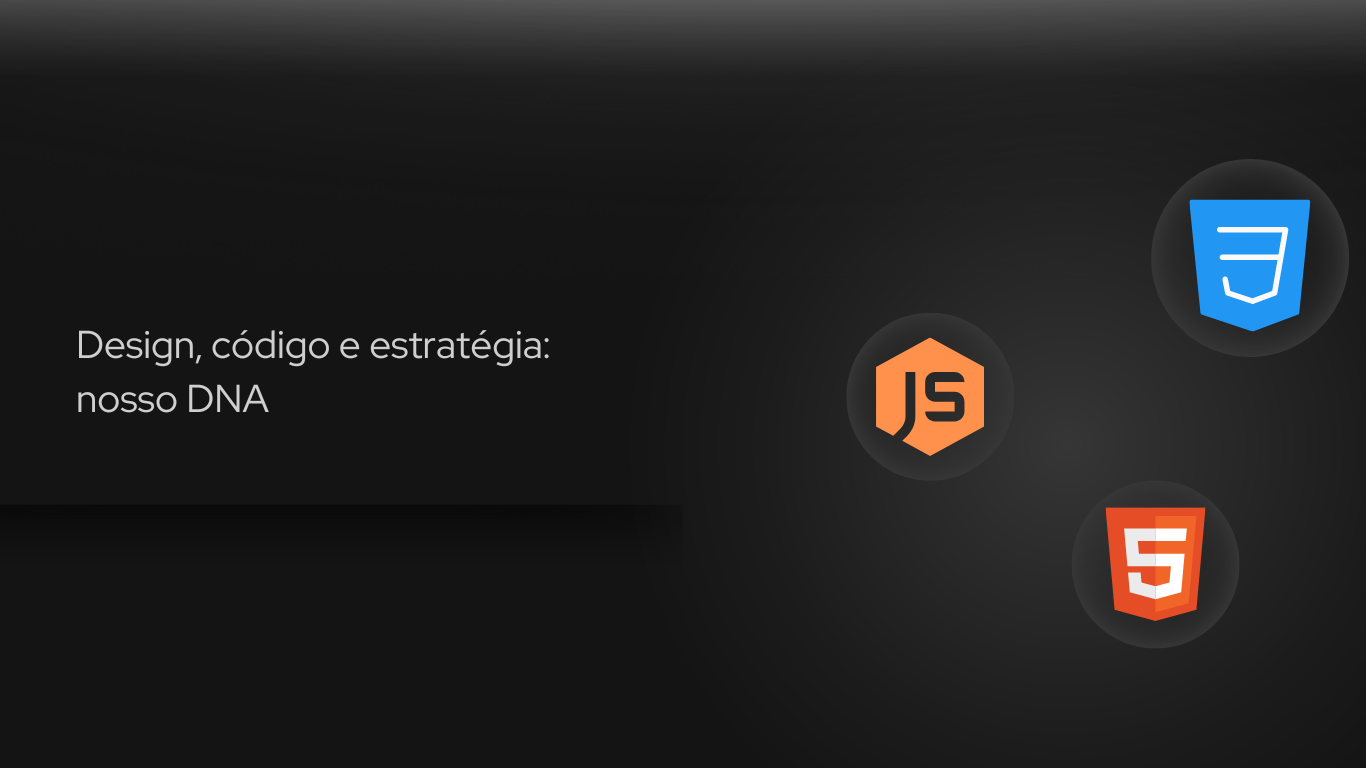
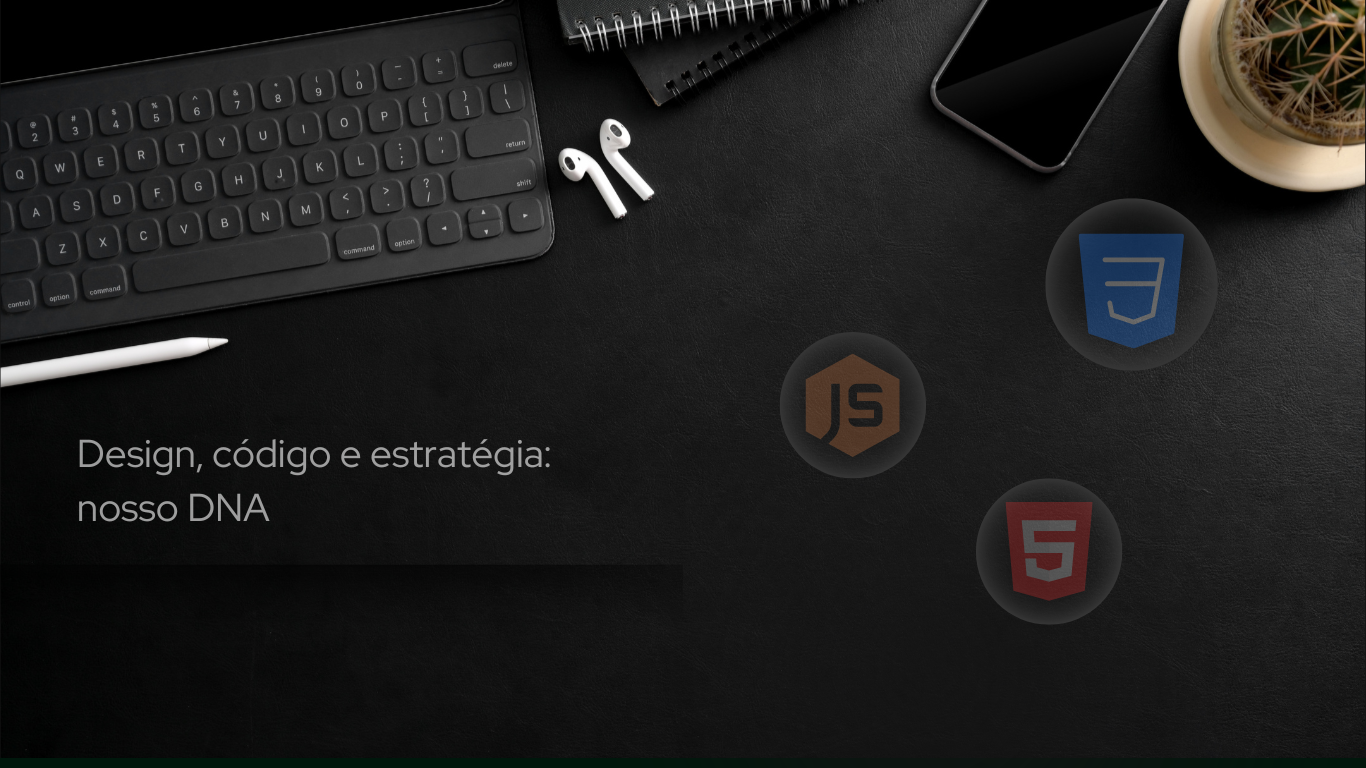
alt

diff --git a/index.html b/index.html
@@ -18,6 +18,7 @@
             <div class="son-one">
                 <div>
                     <a href="index.html">
+                        <h1 id="xurgaris">Xurgaris</h1>
                         <button id="bot">Home</button>
                     </a>
                 </div>
@@ -29,7 +30,6 @@
             </div>
 
             <div class="son-two">
-                <h1 id="xurgaris">Xurgaris</h1>
             </div>
 
             <div class="son-three">
@@ -45,7 +45,9 @@
                 </div>
             
                  <div class="nav">
-                    <span style="color: #fff;margin-top: 15px;margin-left: -30px;font-size: 40px;" class="material-symbols-outlined" onclick="clickMenu()">menu</span>
+                    <span style="color: #fff;margin-top: 32px;margin-left: -30px;font-size: 40px;" onclick="clickMenu()" class="material-symbols-outlined">
+                        segment
+                        </span>
                     <div id="menu">
                         <ul>
                             <li style="font-size: 20px;"><a id="itens" href="index.html">Home</a></li>
@@ -64,10 +66,12 @@
     <div class="container">
         <div class="conteudo-corpo">
             <div class="main-A">
-                <img id="primeiro-banner-AA" src="img/Developers-CEL.png" alt="">
+                <img id="primeiro-banner-AA" src="img/cll.png" alt="">
                 <img id="primeiro-banner-AAA" src="img/Developers-tablet.png" alt="">
                 <img id="primeiro-banner-A" src="img/Developers.png" alt="">
-               <a href="#segundo-banner-B">
+                <h1 id="titulo-A">Design, código e estratégia:
+                    nosso DNA</h1>
+                <a href="#segundo-banner-B">
                 <button id="bot-saibamais-A">Saiba mais</button>
                </a>
             </div>

diff --git a/estilo/main.css b/estilo/main.css
@@ -58,7 +58,8 @@
 
     #xurgaris {
         color: #ffffff;
-        font-size: 17px;
+        font-size: 30px;
+        margin-top: 40px;
     }
 
     .nav {
@@ -135,7 +136,9 @@
         display: flex;
         flex-direction: column;
         width: 100%;
+        height: 100vh;
         align-items: center;
+        margin-bottom: 110px;
        
     }
     
@@ -148,18 +151,31 @@
         display: none;
     }
 
+    #titulo-A{
+        width: 95%;
+        display: flex;
+        font-size: 30px;
+        margin-top: -250px;
+        color: #fff;
+        padding: 10px;
+        font-family: 'Segoe UI', Tahoma, Geneva, Verdana, sans-serif;
+        font-weight: 300;
+    }
+
+
     #bot-saibamais-A {
         width: auto;
         display: flex;
         border: none;   
         background-color: #333;
         font-size: 20px;
-        margin-top: -140px;
+        margin-right: 171px;
+        margin-top: -10px;
         padding-left: 50px;
         padding-right: 50px;
         padding-top: 5px;
         padding-bottom: 5px;
-        color: #ffffff;
+        color: #00BF63;
         
        
     }
@@ -1030,7 +1046,7 @@
         justify-content: center;
         border: none;   
         background-color: #333;
-        margin-top: -263px;
+        margin-top: -163px;
         margin-bottom: 200px;
         margin-left: 65px;
         color: #ffffff;

diff --git a/js/script.js b/js/script.js
@@ -2,7 +2,7 @@ function clickMenu(){
     if(menu.style.display == "block"){
         menu.style.display = "none"
         menu.style.color = "#fff"
-        men
+        
     }
     else{
         menu.style.display = "block"
